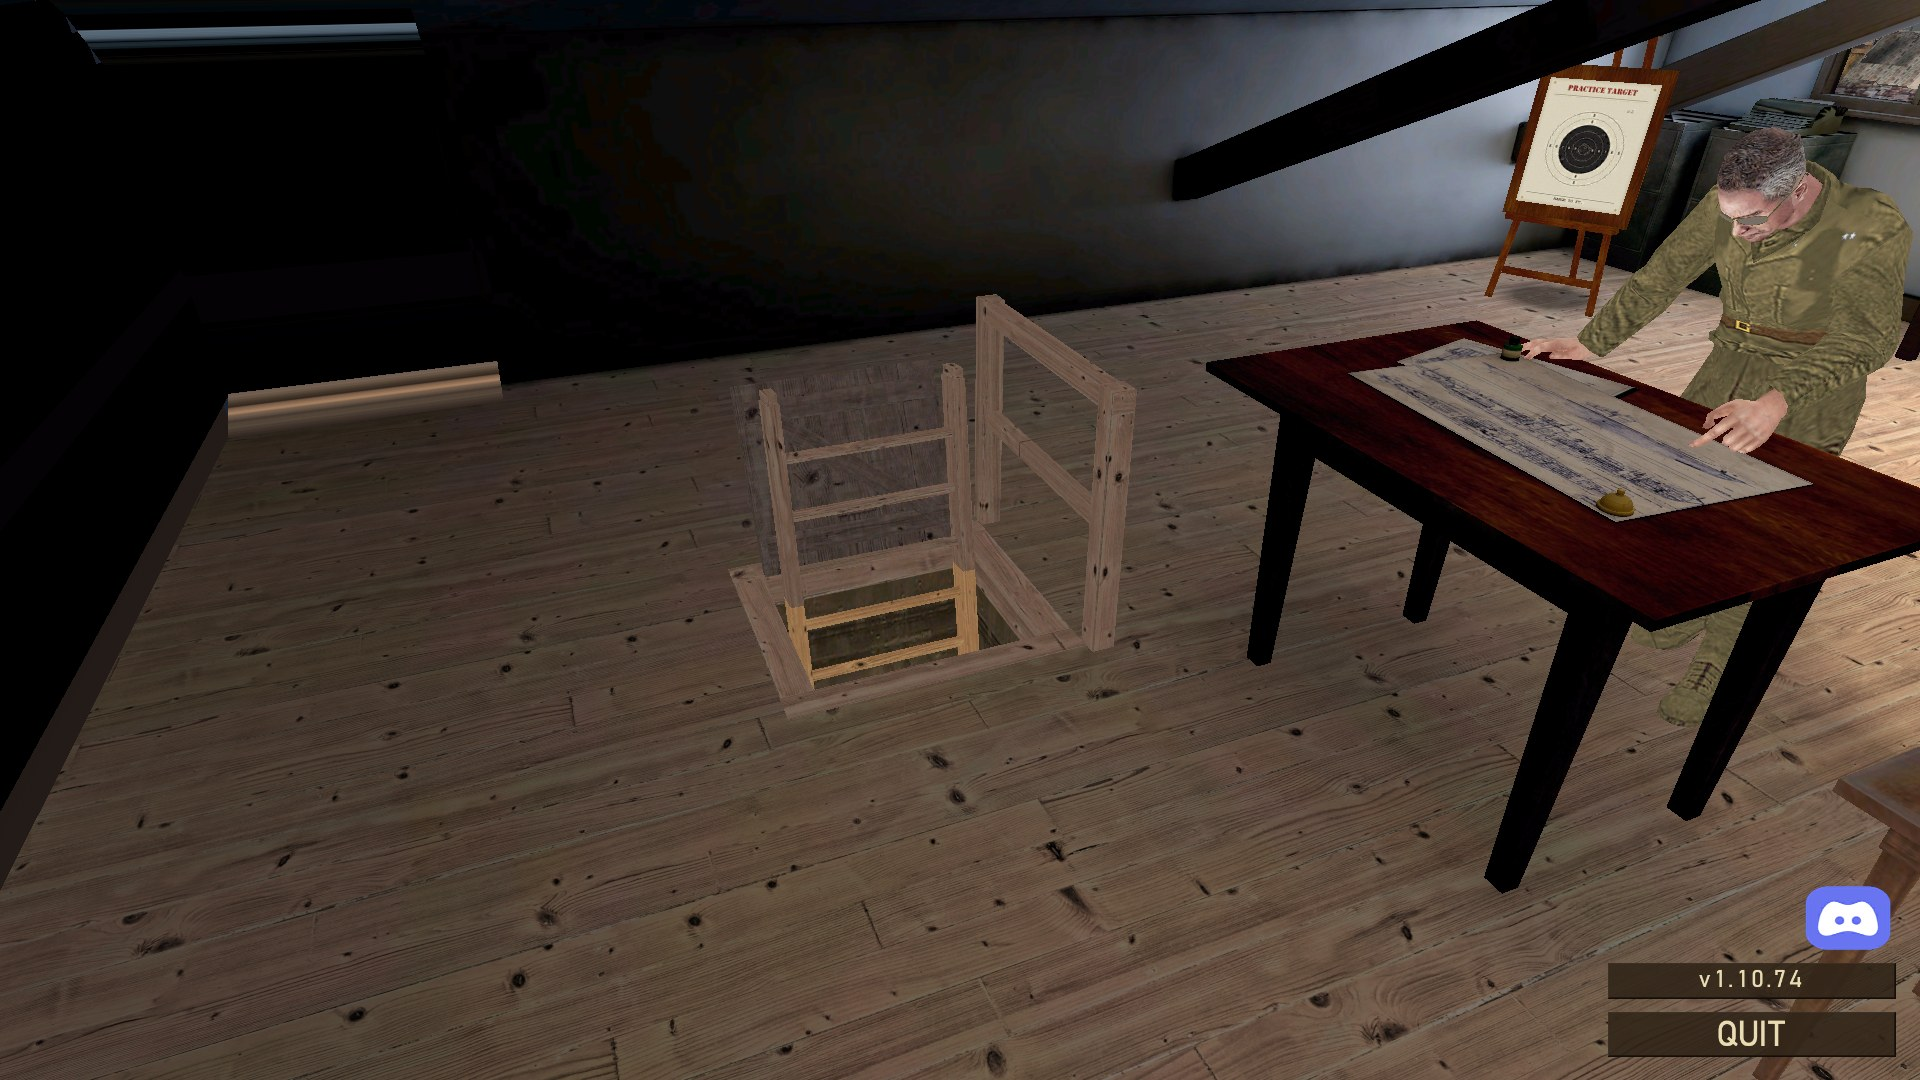
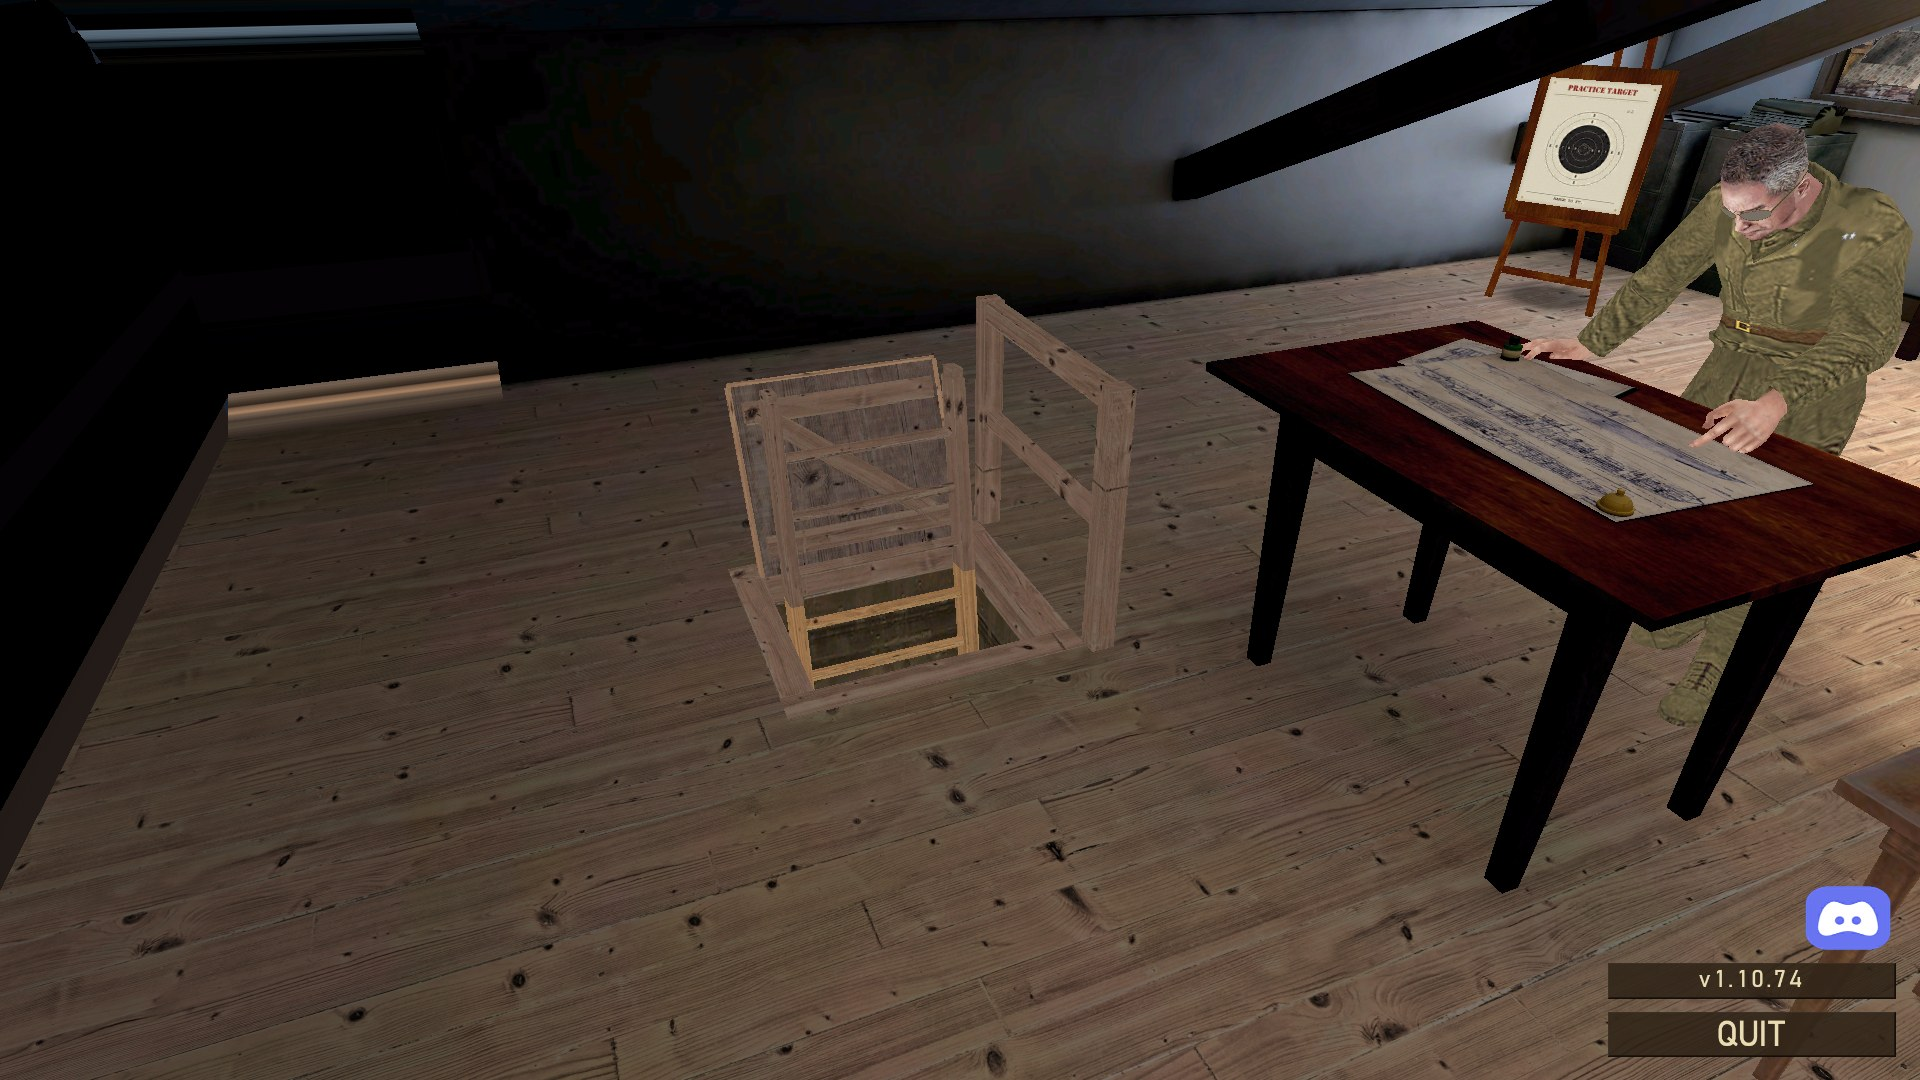
rain73: trapdoor leaf legible - mid-dark weathered planks, battens + Z-brace in frame wood, lit edge trim; stills 16:9 + 21:9 with zooms (pak 36ac6050)

Changed region(s): [[0.375, 0.3361, 0.5, 0.5194], [0.875, 0.0917, 0.9375, 0.2139]]

diff --git a/docs/proposals/attic_polish_2026-11-02/tools/gen_hatch73.py b/docs/proposals/attic_polish_2026-11-02/tools/gen_hatch73.py
@@ -221,6 +221,7 @@ def rung(out, a, b, rad=1.05, n=8):
 
 
 frame, lid, ladder_up, rail, iron = [], [], [], [], []
+brace, rim = [], []        # rain73 v2: the leaf's battens + Z-brace in the lighter frame wood, a thin lit trim on its edges
 # the frame: four boards round the opening, flush with the floor (0.1 u proud), mitred lengths
 FW, FT = 5.5, 0.6
 for (c, a1, sz) in (((HC[0], HY0 - FW / 2, FT / 2 - 0.5), ex, (HX1 - HX0 + 2 * FW, FW, FT)),
@@ -249,10 +250,14 @@ for k in range(NP):
     xk = HX0 + 0.25 + pw * (k + 0.5) - HC[0]
     plank_box(lid, hinge + d_ * lw / 2 + n_ * lt / 2 + ex * xk, d_, ex, n_, (lw, pw - 0.35, lt))
 for f_ in (0.15, 0.85):
-    plank_box(lid, hinge + d_ * lw * f_ - n_ * 1.0, ex, d_, -n_, (ld - 3.0, 4.2, 2.0))
+    plank_box(brace, hinge + d_ * lw * f_ - n_ * 1.0, ex, d_, -n_, (ld - 3.0, 4.2, 2.0))
 zb = (ex * (ld / 2 - 4.0) + d_ * lw * 0.15) - (-ex * (ld / 2 - 4.0) + d_ * lw * 0.85)
 zl = np.linalg.norm(zb)
-plank_box(lid, hinge + d_ * lw * 0.5 - n_ * 1.0, zb / zl, np.cross(-n_, zb / zl), -n_, (zl, 3.6, 2.0))
+plank_box(brace, hinge + d_ * lw * 0.5 - n_ * 1.0, zb / zl, np.cross(-n_, zb / zl), -n_, (zl, 3.6, 2.0))
+# the rim light: the leaf's free edge and its two sides catch the room's light - a 0.8 u trim, proud of both faces by 0.2 u
+plank_box(rim, hinge + d_ * (lw + 0.3) + n_ * lt / 2, ex, d_, n_, (ld + 0.6, 0.8, lt + 0.4))
+for sx in (-1, 1):
+    plank_box(rim, hinge + d_ * lw / 2 + n_ * lt / 2 + ex * sx * (ld / 2 + 0.3), d_, ex, n_, (lw, 0.8, lt + 0.4))
 for sx in (-1, 1):                                   # strap hinges: across the hinge line, half on the leaf, half on the frame
     hc = hinge + ex * sx * (ld / 2 - 7.0) + d_ * 5.0 + n_ * (lt + 0.25)
     plank_box(iron, hc, d_, ex, n_, (11.0, 2.0, 0.5))
@@ -261,7 +266,7 @@ for sx in (-1, 1):                                   # strap hinges: across the 
 # the stop: a short post on the floor behind the frame, its top under the leaf's back face (where the leaf rests)
 s_rest = 24.0
 rest = hinge + d_ * s_rest + n_ * lt
-plank_box(lid, (HC[0], rest[1] + 2.2, rest[2] / 2), up, ex, ey, (rest[2], 4.4, 4.4))
+plank_box(brace, (HC[0], rest[1] + 2.2, rest[2] / 2), up, ex, ey, (rest[2], 4.4, 4.4))
 # the ladder: a loft ladder from the landing, leaning on the far wall at ~75 deg; two stiles (2.4 x 5.5), round rungs every
 # 10.5 u, the stiles run on 48 u above the floor (grab rails, rounded tops) - full size: 0.62 m between the stiles
 LX = (HC[0] - 16.5, HC[0] + 16.5)
@@ -336,7 +341,7 @@ _lid = _lid * (0.78 + 0.16 * _n[..., None]) * (0.88 + 0.12 * _streak[..., None])
 for sfx, k in (("", ROOM), ("_lit", LIT)):
     bake("hzm_hatch_wood%s" % sfx, ALB, k)
     shader("hzm_hatch_wood%s" % sfx)
-    bake("hzm_hatch_lid%s" % sfx, _lid[::2, ::2], (k[0] * 0.78, k[1] * 0.78, k[2] * 0.80))      # half size: small on screen (menu VRAM, menuload)
+    bake("hzm_hatch_lid%s" % sfx, _lid[::2, ::2], (k[0] * 0.98, k[1] * 0.97, k[2] * 0.99))      # half size: small on screen (menu VRAM, menuload)
     shader("hzm_hatch_lid%s" % sfx)
     bake("hzm_hatch_iron%s" % sfx, ALB, (k[0] * 0.16, k[1] * 0.16, k[2] * 0.17))
     shader("hzm_hatch_iron%s" % sfx)
@@ -357,7 +362,8 @@ open(os.path.join(sdir, "hzm_hatch73.shader"), "w", newline="\n").write(
     "// v1.10.73 the attic's ladder hatch (gen_hatch73.py v2): the attic floor's own boards, the room light baked in; a plastered,\n"
     "// warm-lit stairwell below\n\n" + "\n\n".join(SH) + "\n")
 for sfx in ("", "_lit"):
-    write_model("hzm_hatch" + sfx, [("hzm_hatch_wood" + sfx, frame + ladder_up + rail), ("hzm_hatch_lid" + sfx, lid), ("hzm_hatch_iron" + sfx, iron)])
+    write_model("hzm_hatch" + sfx, [("hzm_hatch_wood" + sfx, frame + ladder_up + rail + brace), ("hzm_hatch_lid" + sfx, lid), ("hzm_hatch_wood_lit", rim),
+                                    ("hzm_hatch_iron" + sfx, iron)])
 write_model("hzm_hatch_below", [("hzm_hatch_shaft", shaft), ("hzm_hatch_ladlo", lad_below), ("hzm_hatch_landing", landing),
                                 ("hzm_hatch_pool", glow)])
 import json  # noqa: E402
